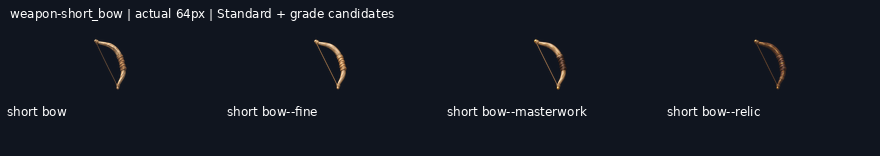
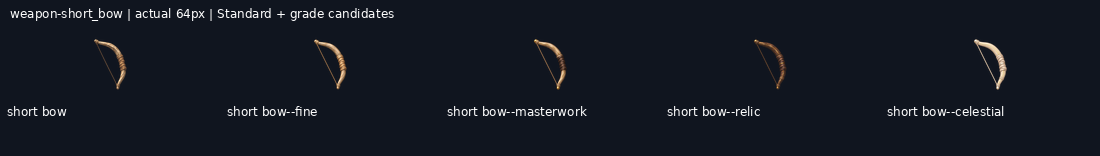
Deliver weapon-short_bow--celestial review candidate with native provenance and exports

diff --git a/art/_archive/gear/2026-11-21-retry-continuation/HANDOFF.md b/art/_archive/gear/2026-11-21-retry-continuation/HANDOFF.md
@@ -1,13 +1,13 @@
 # Reset continuation progress
 
-Branch: `art/2026-11-20-reset-continuation`. New deliveries: 55/94.
+Branch: `art/2026-11-20-reset-continuation`. New deliveries: 56/94.
 
 Shared coordination: https://github.com/leonpentastorm/Project-Heaven-Cry/issues/3 . Read START-HERE.md before extending this queue.
 
 All new entries remain review-candidate; production_approved:false and implementation_ready:false. Exact-outline review remains pending.
 
-Ready jobs: weapon-short_bow--celestial, weapon-parlour_pistol--fine, weapon-lever_carbine--fine, weapon-sawn_off--fine, weapon-legion_bullpup--masterwork, weapon-whisper_smg--fine, weapon-service_pistol--masterwork, weapon-drifter_revolver--masterwork.
+Ready jobs: weapon-parlour_pistol--fine, weapon-lever_carbine--fine, weapon-sawn_off--fine, weapon-legion_bullpup--masterwork, weapon-whisper_smg--fine, weapon-service_pistol--masterwork, weapon-drifter_revolver--masterwork.
 
-Pending jobs: weapon-short_bow--celestial, weapon-parlour_pistol--fine, weapon-parlour_pistol--masterwork, weapon-parlour_pistol--relic, weapon-parlour_pistol--celestial, weapon-lever_carbine--fine, weapon-lever_carbine--masterwork, weapon-lever_carbine--relic, weapon-lever_carbine--celestial, weapon-sawn_off--fine, weapon-sawn_off--masterwork, weapon-sawn_off--relic, weapon-sawn_off--celestial, weapon-legion_bullpup--masterwork, weapon-legion_bullpup--relic, weapon-legion_bullpup--celestial, weapon-whisper_smg--fine, weapon-whisper_smg--masterwork, weapon-whisper_smg--relic, weapon-whisper_smg--celestial, weapon-whisper_pistol--masterwork, weapon-whisper_pistol--relic, weapon-whisper_pistol--celestial, weapon-whisper_carbine--fine, weapon-whisper_carbine--masterwork, weapon-whisper_carbine--relic, weapon-whisper_carbine--celestial, weapon-service_pistol--masterwork, weapon-service_pistol--relic, weapon-service_pistol--celestial, weapon-magistrate_pistol--masterwork, weapon-magistrate_pistol--relic, weapon-magistrate_pistol--celestial, weapon-decrkm_autopistol--masterwork, weapon-decrkm_autopistol--relic, weapon-decrkm_autopistol--celestial, weapon-drifter_revolver--masterwork, weapon-drifter_revolver--relic, weapon-drifter_revolver--celestial.
+Pending jobs: weapon-parlour_pistol--fine, weapon-parlour_pistol--masterwork, weapon-parlour_pistol--relic, weapon-parlour_pistol--celestial, weapon-lever_carbine--fine, weapon-lever_carbine--masterwork, weapon-lever_carbine--relic, weapon-lever_carbine--celestial, weapon-sawn_off--fine, weapon-sawn_off--masterwork, weapon-sawn_off--relic, weapon-sawn_off--celestial, weapon-legion_bullpup--masterwork, weapon-legion_bullpup--relic, weapon-legion_bullpup--celestial, weapon-whisper_smg--fine, weapon-whisper_smg--masterwork, weapon-whisper_smg--relic, weapon-whisper_smg--celestial, weapon-whisper_pistol--masterwork, weapon-whisper_pistol--relic, weapon-whisper_pistol--celestial, weapon-whisper_carbine--fine, weapon-whisper_carbine--masterwork, weapon-whisper_carbine--relic, weapon-whisper_carbine--celestial, weapon-service_pistol--masterwork, weapon-service_pistol--relic, weapon-service_pistol--celestial, weapon-magistrate_pistol--masterwork, weapon-magistrate_pistol--relic, weapon-magistrate_pistol--celestial, weapon-decrkm_autopistol--masterwork, weapon-decrkm_autopistol--relic, weapon-decrkm_autopistol--celestial, weapon-drifter_revolver--masterwork, weapon-drifter_revolver--relic, weapon-drifter_revolver--celestial.
 
 Quota state: null.

diff --git a/art/briefs/prompts-2026-11-19/PRODUCTION-STATUS.md b/art/briefs/prompts-2026-11-19/PRODUCTION-STATUS.md
@@ -1,12 +1,12 @@
 # Current sole-artist production
 
-**573/871 (65.8%) selected review candidates.** Last delivery: `weapon-short_bow--relic`. Imports, exports, components, rejected attempts and archived alternatives add0. Artistic/implementation approvals remainfalse.
+**574/871 (65.9%) selected review candidates.** Last delivery: `weapon-short_bow--celestial`. Imports, exports, components, rejected attempts and archived alternatives add0. Artistic/implementation approvals remainfalse.
 
 | Requested work | Selected | Total |
 | --- | ---: | ---: |
 | icons_tiles | 88 | 88 |
 | new_repaint_standards | 53 | 104 |
-| grades | 413 | 656 |
+| grades | 414 | 656 |
 | uniques | 19 | 23 |
 
 Active run sole-20261121-0109, branch art/2026-11-20-reset-continuation. Shared live ledger: https://github.com/leonpentastorm/Project-Heaven-Cry/issues/3 . Current renewed grade lane: art/_archive/gear/2026-11-21-retry-continuation/START-HERE.md. Unique retry lane: art/_archive/gear/2026-11-21-retry-uniques/START-HERE.md. All earlier512 candidate drawings were integrated before this lane; native bytes, cleaned imports, source metadata and all prior failures preserved.

diff --git a/art/_archive/gear/2026-11-20-reset-continuation/START-HERE.md b/art/_archive/gear/2026-11-20-reset-continuation/START-HERE.md
@@ -1,6 +1,6 @@
 # Current21November continuation
 
-573/871 selected. Active lane art/_archive/gear/2026-11-21-retry-continuation/START-HERE.md, run sole-20261121-0109. User explicitly authorized renewed fictional-art attempts; all priorart/errors preserved. Read liveissue3+allcomments and remote deliveries before everyrender. RunningScript completed with original marks unchanged. All approvalsfalse;0.30 holdsremain. See PRODUCTION-STATUS.md and REMAINING-WORK.json for the latest exact count.
+574/871 selected. Active lane art/_archive/gear/2026-11-21-retry-continuation/START-HERE.md, run sole-20261121-0109. User explicitly authorized renewed fictional-art attempts; all priorart/errors preserved. Read liveissue3+allcomments and remote deliveries before everyrender. RunningScript completed with original marks unchanged. All approvalsfalse;0.30 holdsremain. See PRODUCTION-STATUS.md and REMAINING-WORK.json for the latest exact count.
 
 # Historical20November handoff
 
